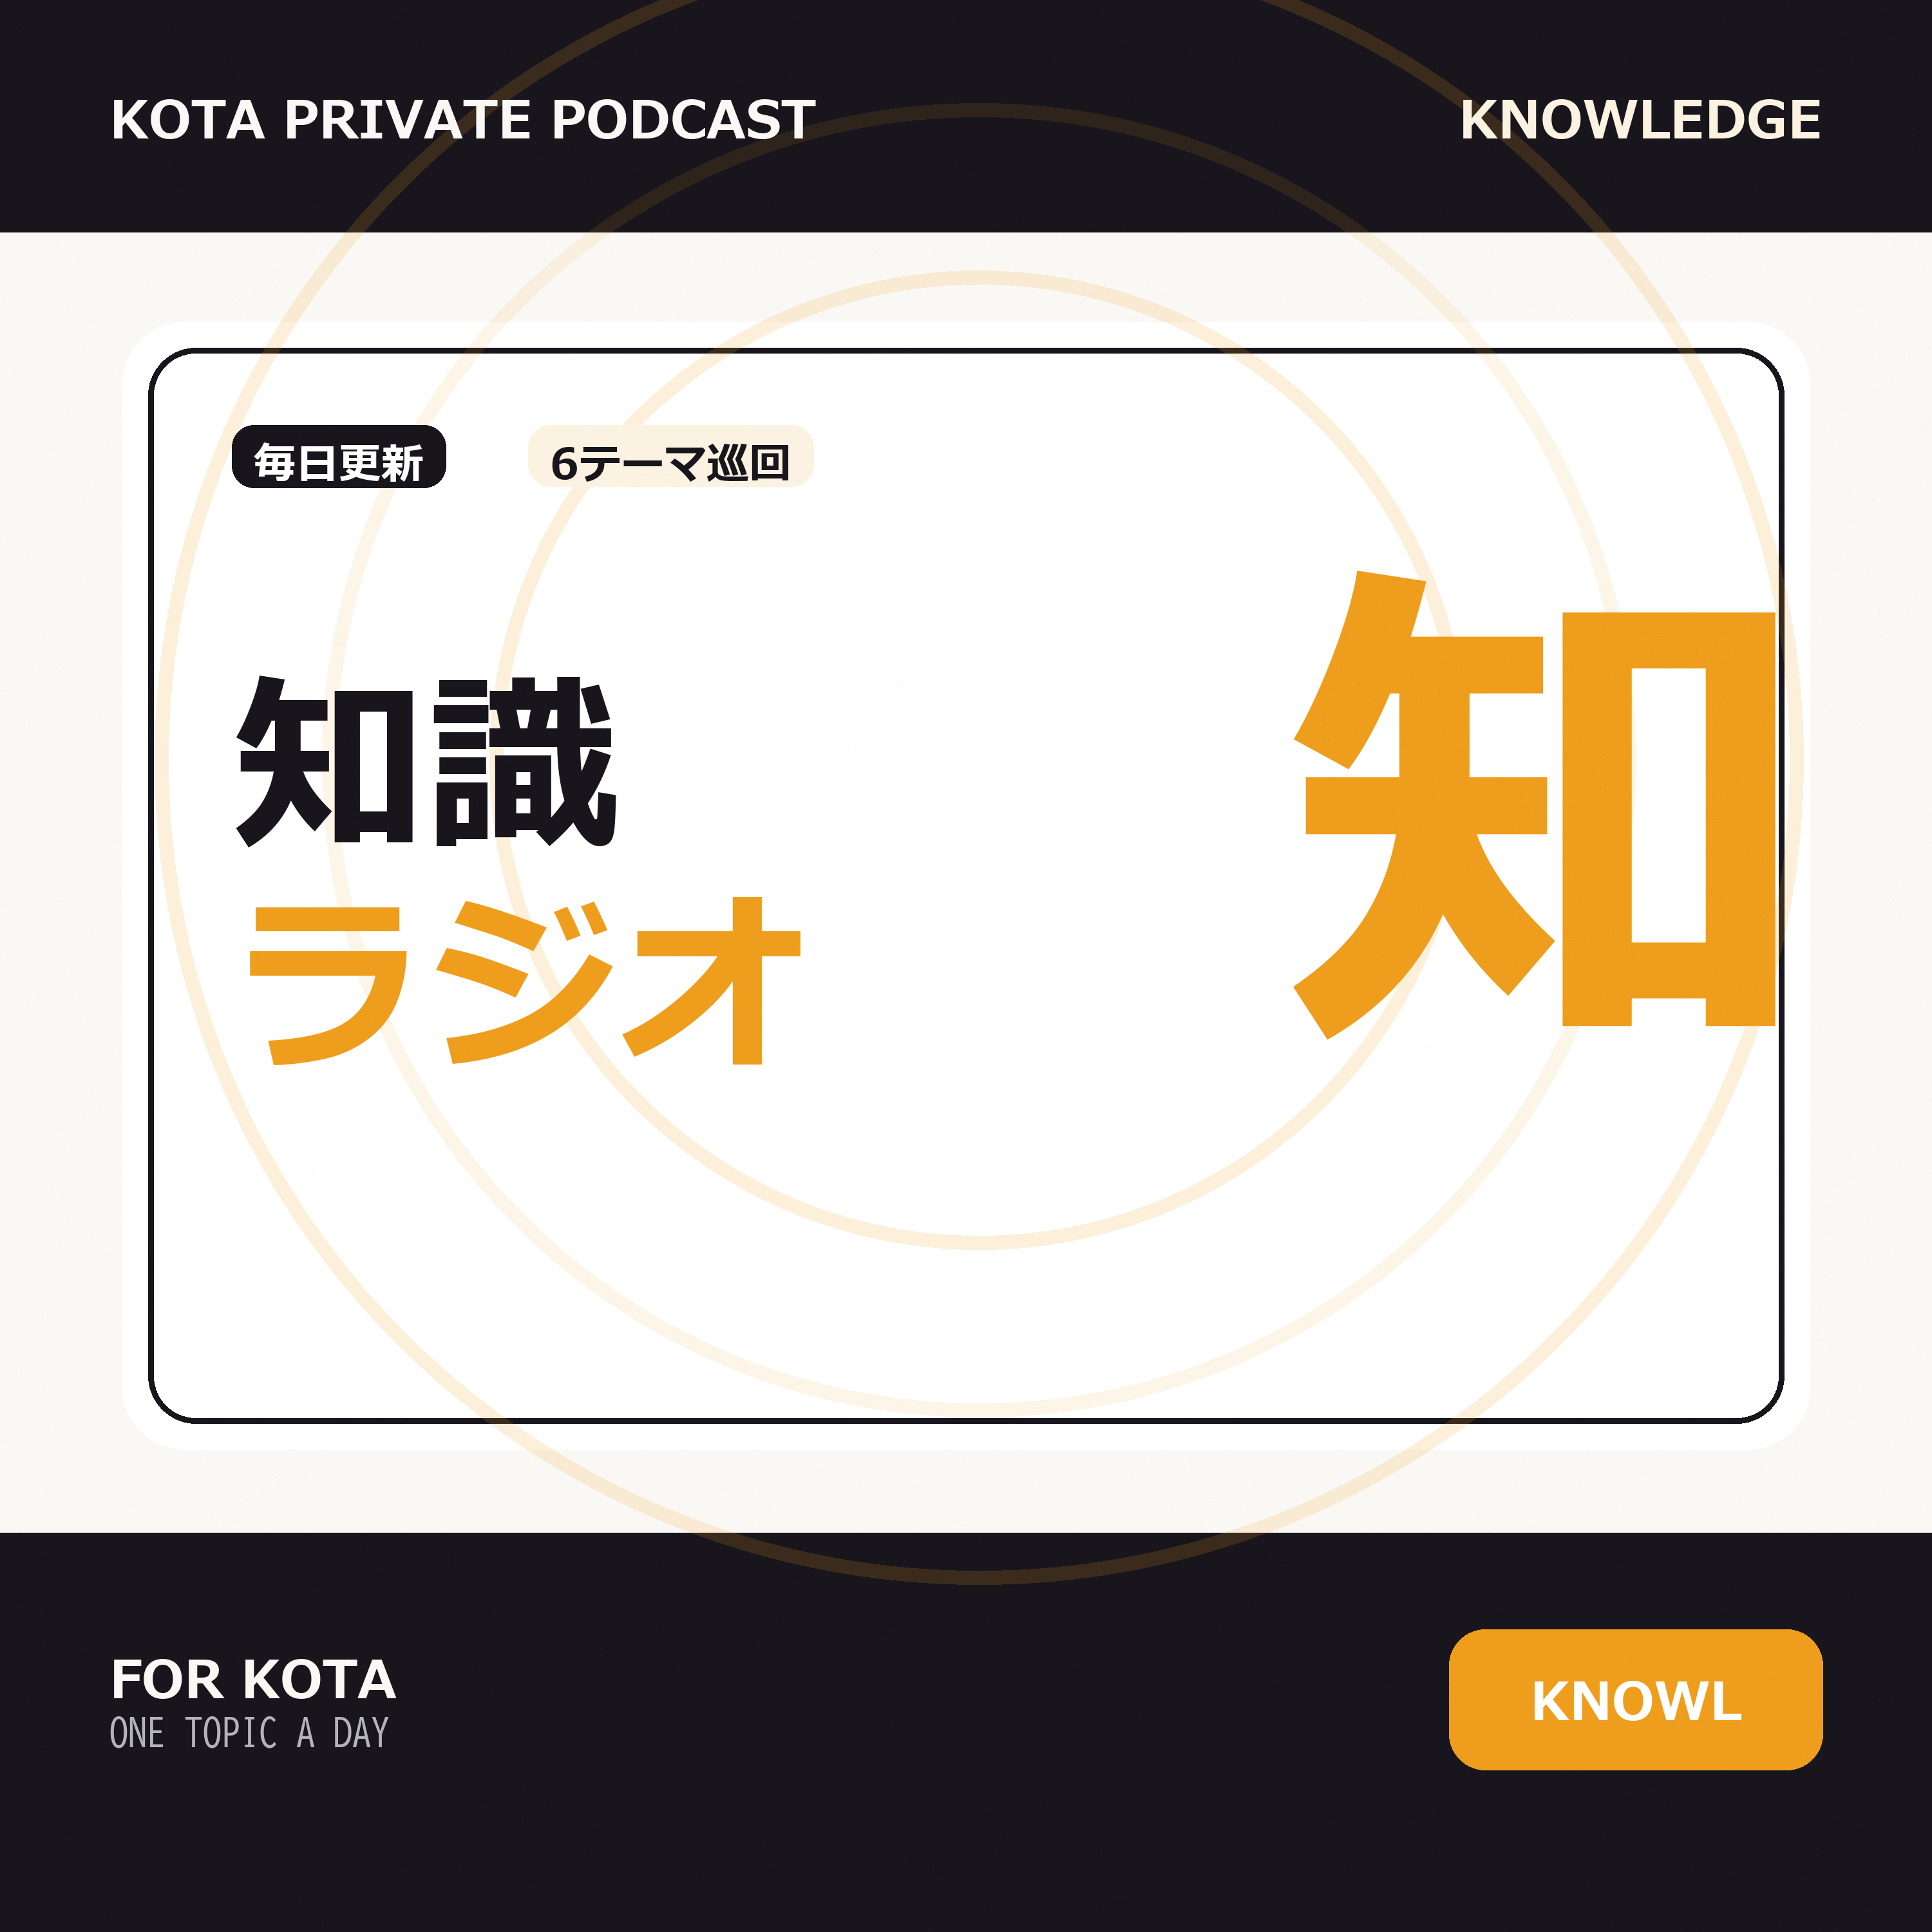
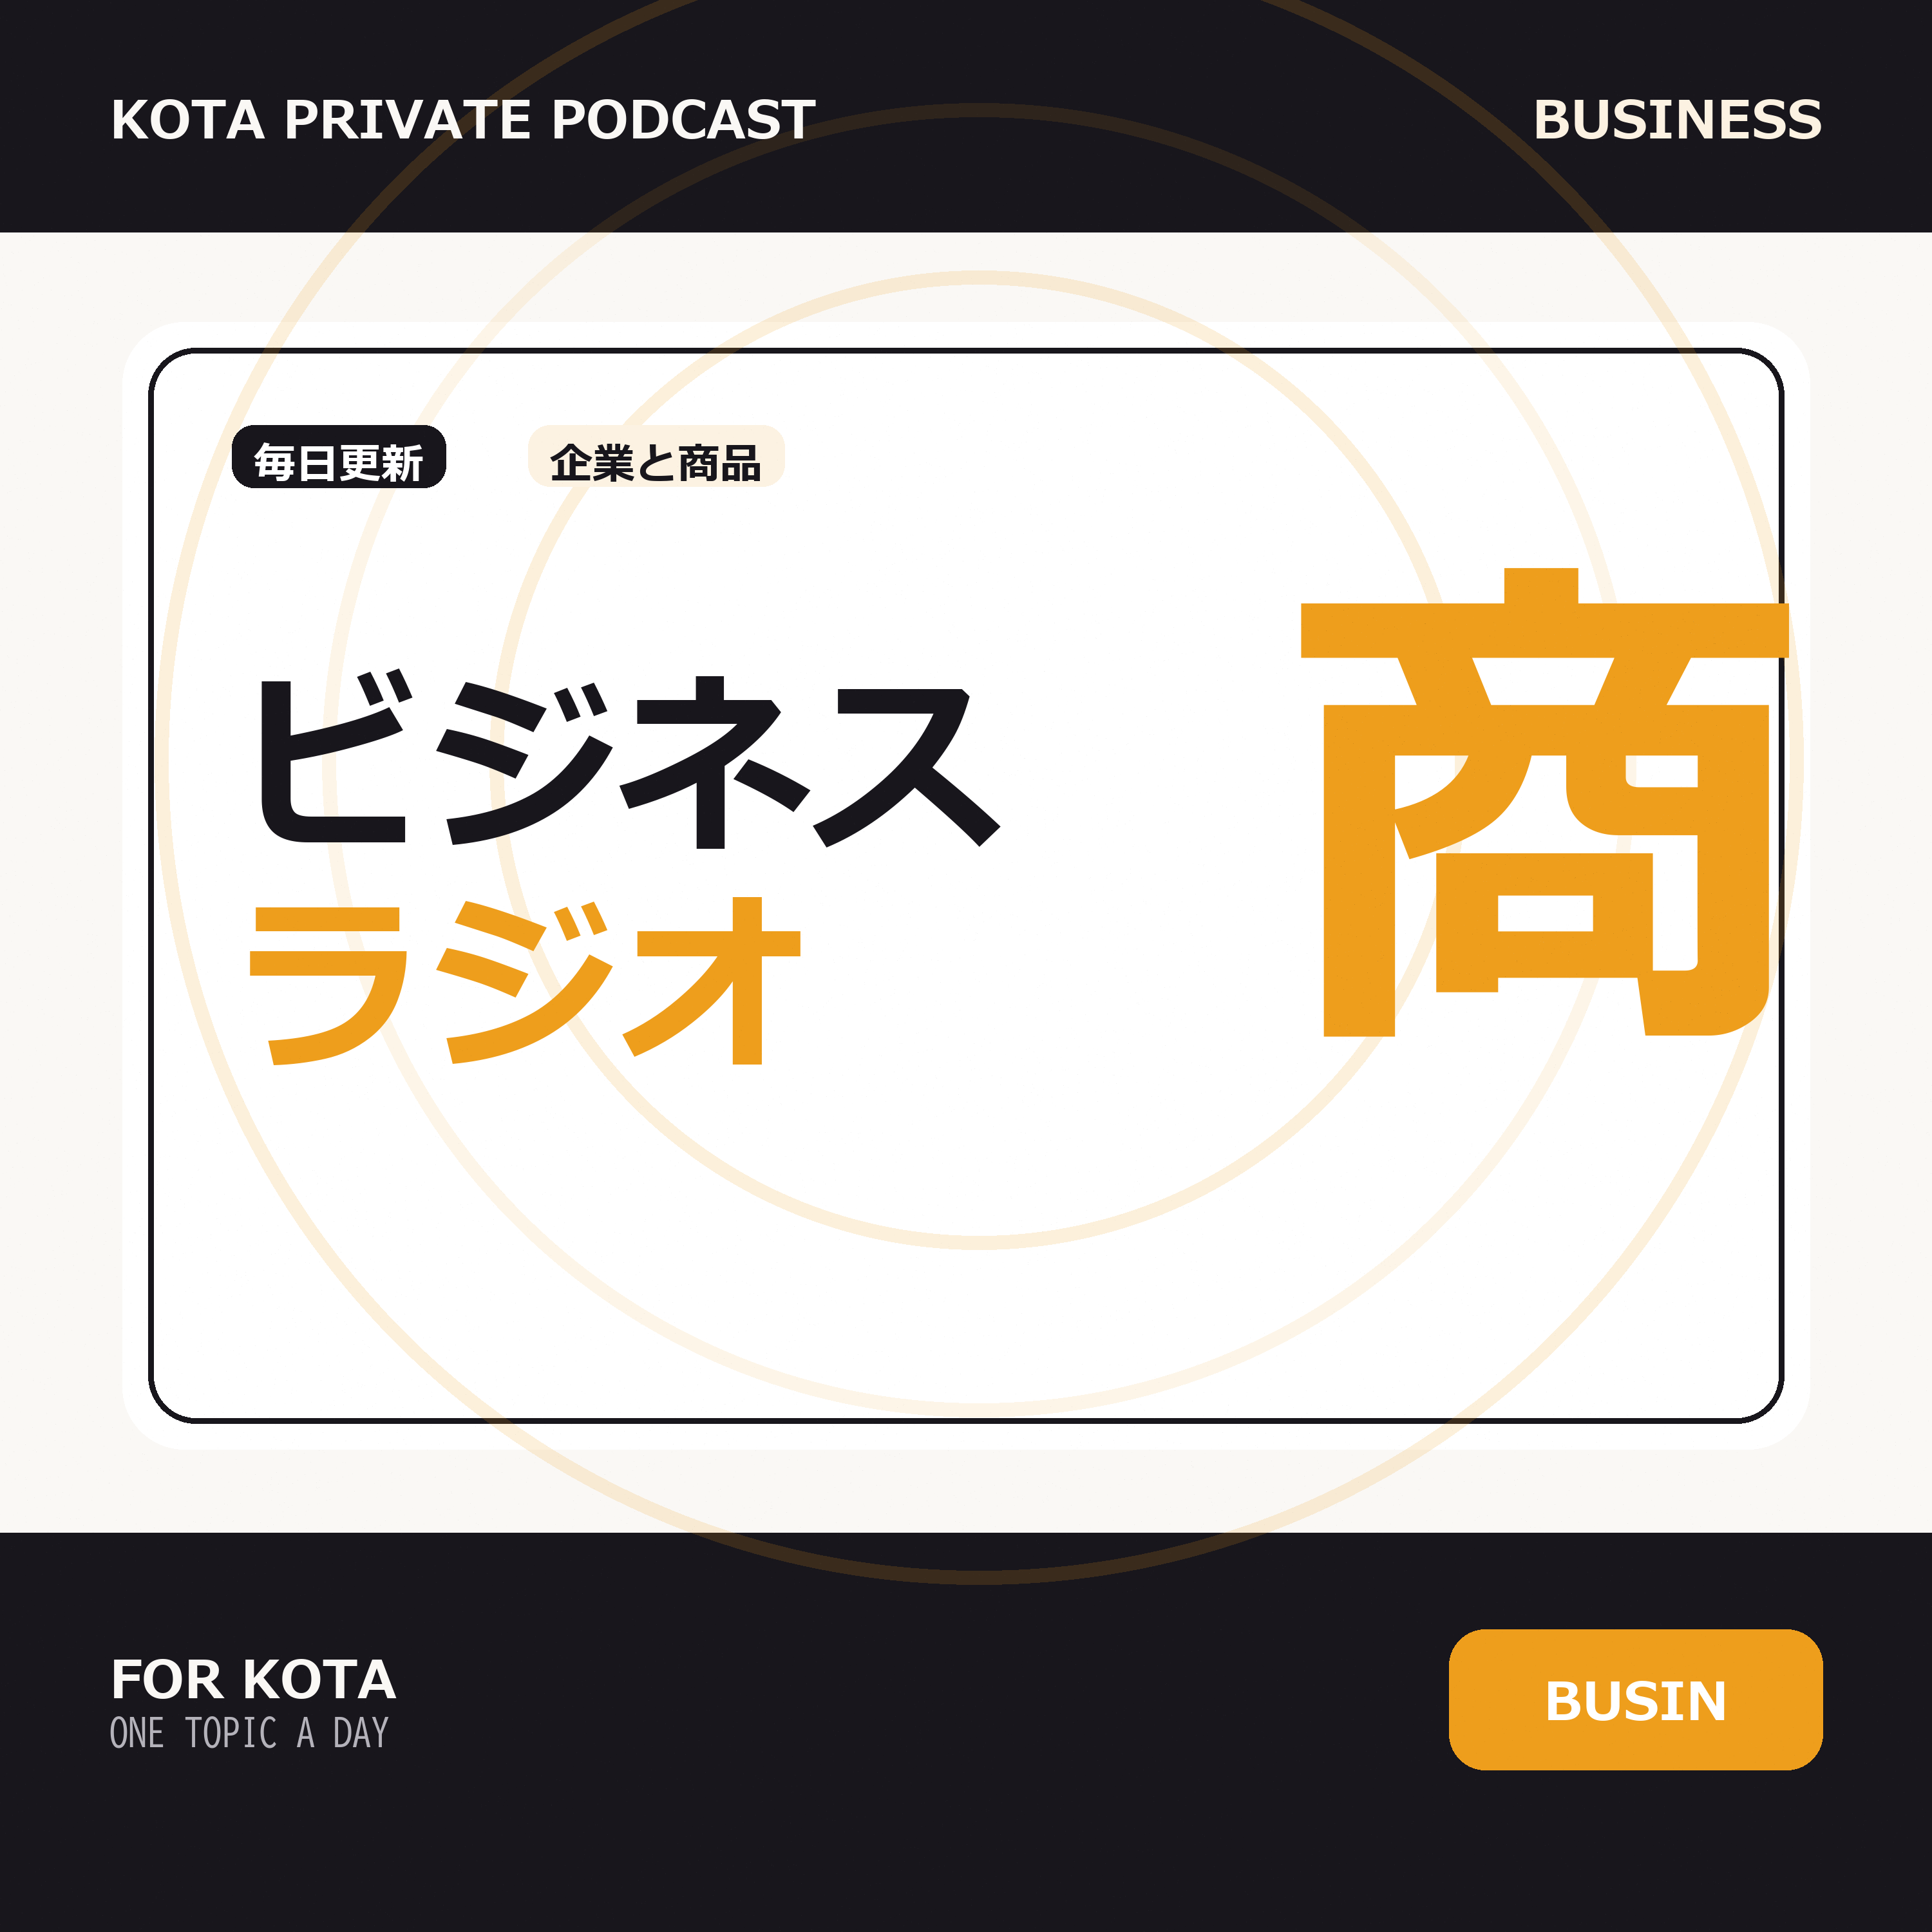
知識ラジオ→ビジネスラジオに改名（企業/商品/経営者/業界の4テーマ）、地理ラジオ(chiri)を新設し吉祥寺回を移設。両カバー・ルーチン更新

diff --git a/scripts/publish.py b/scripts/publish.py
@@ -70,10 +70,22 @@ SHOWS = {
         "meta": "_meta_chishiki.json",
         "cover": "chishiki-cover.png",
         "hour": 7,
-        "channel_title": "kota 知識ラジオ",
-        "channel_desc": "毎日1本、企業・商品・日本の駅と周辺地域・世界の国・経営者・業界特集をローテーションで深掘りする、kota専用の教養音声番組。",
-        "category": "Education",
-        "default_title": "知識ラジオ（{date}）",
+        "channel_title": "kota ビジネスラジオ",
+        "channel_desc": "毎日1本、企業・商品・経営者・業界特集をローテーションで深掘りする、kota専用のビジネス教養音声番組。",
+        "category": "Business",
+        "default_title": "ビジネスラジオ（{date}）",
+    },
+    "chiri": {
+        "ep_subdir": "chiri/episodes",
+        "feed_path": "chiri.xml",
+        "manifest": "chiri_episodes.json",
+        "meta": "_meta_chiri.json",
+        "cover": "chiri-cover.png",
+        "hour": 7,
+        "channel_title": "kota 地理ラジオ",
+        "channel_desc": "毎日1本、日本の駅と周辺地域・世界の国を1つ取り上げ、その土地の成り立ち・地理・歴史・名物を語れるレベルまで深掘りする、kota専用の音声番組。",
+        "category": "Society & Culture",
+        "default_title": "地理ラジオ（{date}）",
     },
     "kanshou": {
         "ep_subdir": "kanshou/episodes",

diff --git a/scripts/make_cover.py b/scripts/make_cover.py
@@ -207,8 +207,10 @@ def make_katareru_cover():
 GENERIC_COVERS = {
     "lifehack": ("lifehack-cover.png", (0, 176, 148), "技",
                  ["ライフ", "ハック", "ラジオ"], "AIで進化", "LIFE HACK", "ADOPTABLE TIPS"),
-    "chishiki": ("chishiki-cover.png", (238, 158, 28), "知",
-                 ["知識", "ラジオ", ""], "6テーマ巡回", "KNOWLEDGE", "ONE TOPIC A DAY"),
+    "chishiki": ("chishiki-cover.png", (238, 158, 28), "商",
+                 ["ビジネス", "ラジオ", ""], "企業と商品", "BUSINESS", "ONE TOPIC A DAY"),
+    "chiri": ("chiri-cover.png", (34, 168, 120), "地",
+              ["地理", "ラジオ", ""], "街と世界", "GEOGRAPHY", "PLACES & COUNTRIES"),
     "kanshou": ("kanshou-cover.png", (228, 72, 140), "観",
                 ["鑑賞", "ふり", "かえり"], "Notion連動", "REVIEW", "FROM YOUR LOG"),
     "fukushi": ("fukushi-cover.png", (40, 140, 220), "福",

diff --git a/CHIRI_ROUTINE.md b/CHIRI_ROUTINE.md
@@ -1,0 +1,33 @@
+# 地理ラジオ — 番組差分ルーチン（SHOW=chiri）
+
+> 制作の本体手順は **RADIO_BASE.md** に従う。このファイルは**テーマ選定（2カテゴリ巡回）**だけを定義する。
+> scheduled-task：`chiri-radio`（毎朝。全番組を6時までに仕上げる方針）。配信フィード：`chiri.xml`。
+> 2026-06-18 に知識ラジオ（chishiki）から「地理」系を独立させて新設（kota 指示）。知識ラジオは企業・商品・経営者・業界の4テーマに専念。
+
+## この番組の狙い
+
+土地（街・国）の教養を毎日1つ増やす。**2カテゴリをローテーション**で巡回し、1日1テーマを「他人に語れる」レベルまで深掘りする。
+
+## STEP B. テーマ選定（2カテゴリを順番に巡回）
+
+巡回順（この順で1日ずつ進める）：
+
+1. **駅と周辺地域** … 日本の駅を1つ取り上げ、その**周辺地域**を特集（街の成り立ち・歴史・地理・名所・名物・再開発・乗降客数など）。
+2. **世界の国** … 1国。地理・歴史・経済・文化・暮らし・意外な事実。
+
+### 巡回ロジック
+- `data/chiri_history.json` の最新エントリの `category` を見て、上の順番で**次のカテゴリ**を選ぶ（世界の国の次は駅と周辺地域に戻る）。履歴が空なら「駅と周辺地域」から。
+- 選んだカテゴリの中で、**過去に取り上げた具体対象（駅名・国名など）と被らない**ものを1つ選ぶ。
+- history には `category` も必ず記録する（次回の巡回判定に使う）。
+
+## STEP D. リサーチの観点
+- その土地について、RADIO_BASE のリサーチ規律で「正体・基本／歴史・成り立ち／数字・規模／意外な事実・小ネタ」を厚めに。出典必須・推測禁止。
+- **「なぜその街/国が、そうなったのか」**まで掘る（地形・交通・歴史の偶然・経路依存）。RADIO_BASE「深掘りの作法」を守る。
+
+## STEP F. 台本
+- 構成は RADIO_BASE 通り。トピック3つは「①基本・どこか ②歴史や成り立ち ③意外な事実・現在地」のように。
+- 「駅と周辺地域」回は、駅そのものより**周辺の地域**に重心（街の成り立ち・名物・歩いて分かる面白さ）。
+
+### 冒頭・結びの定型
+- 冒頭：「こんにちは。地理ラジオ、今日は『<カテゴリ>』から『○○』です。」
+- 結び：「以上、今日の地理ラジオでした。これで明日、ちょっと語れますね。」

diff --git a/CHISHIKI_ROUTINE.md b/CHISHIKI_ROUTINE.md
@@ -1,35 +1,35 @@
-# 知識ラジオ — 番組差分ルーチン（SHOW=chishiki）
+# ビジネスラジオ — 番組差分ルーチン（SHOW=chishiki）
 
-> 制作の本体手順は **RADIO_BASE.md** に従う。このファイルは**テーマ選定（6カテゴリ巡回）**だけを定義する。
-> scheduled-task：`chishiki-radio`（毎朝4:00頃。全番組を6時までに仕上げる方針）。配信フィード：`chishiki.xml`。
+> 制作の本体手順は **RADIO_BASE.md** に従う。このファイルは**テーマ選定（4カテゴリ巡回）**だけを定義する。
+> scheduled-task：`chishiki-radio`（毎朝4:00頃。全番組を6時までに仕上げる方針）。配信フィード：`chishiki.xml`（番組名は変わったが、購読維持のためフィードIDは chishiki のまま）。
+> 2026-06-18 に「地理」系（駅と周辺地域・世界の国）を地理ラジオ（chiri）へ独立させ、当番組は企業・商品・経営者・業界の4テーマに専念（kota 指示）。旧名「知識ラジオ」。
 
 ## この番組の狙い
 
-教養を毎日1つ増やす。**6カテゴリをローテーション**で巡回し、1日1テーマを深掘りする。
+ビジネスの教養を毎日1つ増やす。**4カテゴリをローテーション**で巡回し、1日1テーマを深掘りする。
 
-## STEP B. テーマ選定（6カテゴリを順番に巡回）
+## STEP B. テーマ選定（4カテゴリを順番に巡回）
 
 巡回順（この順で1日ずつ進める）：
 
 1. **企業** … 世の中の企業を1社。事業の中身・歴史・強み・意外な事実・数字。
 2. **商品** … 世の中の商品を1つ。誕生の経緯・なぜ売れたか・構造・市場での数字。
-3. **駅と周辺地域** … 日本の駅を1つ取り上げ、その**周辺地域**を特集（歴史・地理・名所・名物・再開発・乗降客数など）。
-4. **世界の国** … 1国。地理・歴史・経済・文化・暮らし・意外な事実。
-5. **経営者** … 有名な経営者を1名。経歴・哲学・代表的な決断・エピソード。
-6. **業界特集** … 1つの業界。構造・主要プレイヤー・今の動向とトレンド。
+3. **経営者** … 有名な経営者を1名。経歴・哲学・代表的な決断・エピソード。
+4. **業界特集** … 1つの業界。構造・主要プレイヤー・今の動向とトレンド。
 
 ### 巡回ロジック
 - `data/chishiki_history.json` の最新エントリの `category` を見て、上の順番で**次のカテゴリ**を選ぶ（業界特集の次は企業に戻る）。履歴が空なら「企業」から。
-- 選んだカテゴリの中で、**過去に取り上げた具体対象（企業名・国名・駅名など）と被らない**ものを1つ選ぶ。
+- 選んだカテゴリの中で、**過去に取り上げた具体対象（企業名・商品名など）と被らない**ものを1つ選ぶ。
 - history には `category` も必ず記録する（次回の巡回判定に使う）。
+- ※地理系（駅・国）はこの番組では扱わない（地理ラジオ＝chiri へ）。
 
 ## STEP D. リサーチの観点
 - そのカテゴリの対象について、RADIO_BASE のリサーチ規律で「正体・基本／歴史・経緯／数字・規模／意外な事実・小ネタ」を厚めに。出典必須・推測禁止。
+- RADIO_BASE「深掘りの作法」を守り、「なぜ可能か／なぜ他はできないか」まで掘る。
 
 ## STEP F. 台本
 - 構成は RADIO_BASE 通り。トピック3つは「①基本・正体 ②歴史や仕組み ③意外な事実・現在地」のように。
-- 「駅と周辺地域」回は、駅そのものより**周辺の地域**に重心（街の成り立ち・名物・歩いて分かる面白さ）。
 
 ### 冒頭・結びの定型
-- 冒頭：「こんにちは。知識ラジオ、今日は『<カテゴリ>』から『○○』です。」
-- 結び：「以上、今日の知識ラジオでした。これで明日、ちょっと語れますね。」
+- 冒頭：「こんにちは。ビジネスラジオ、今日は『<カテゴリ>』から『○○』です。」
+- 結び：「以上、今日のビジネスラジオでした。これで明日、ちょっと語れますね。」